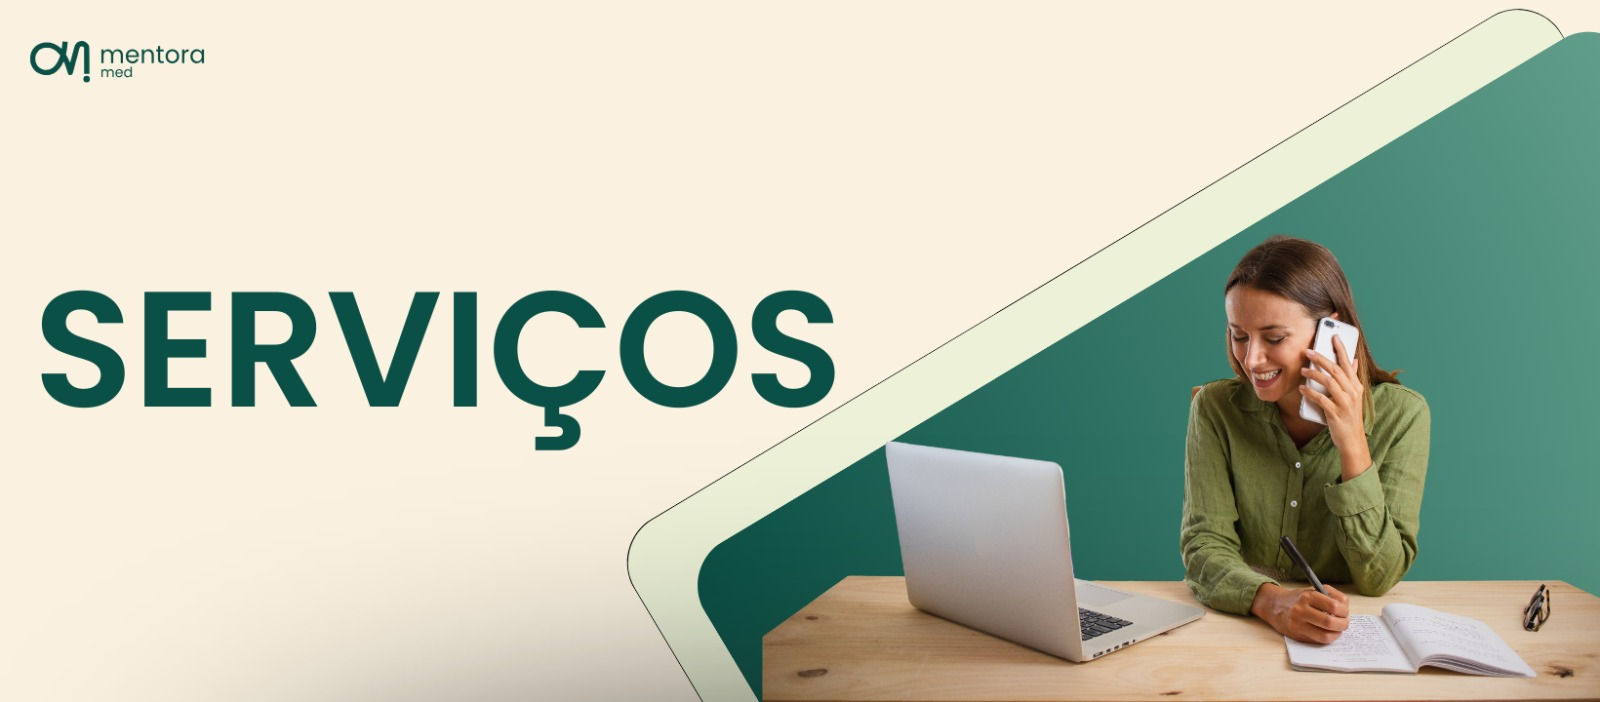
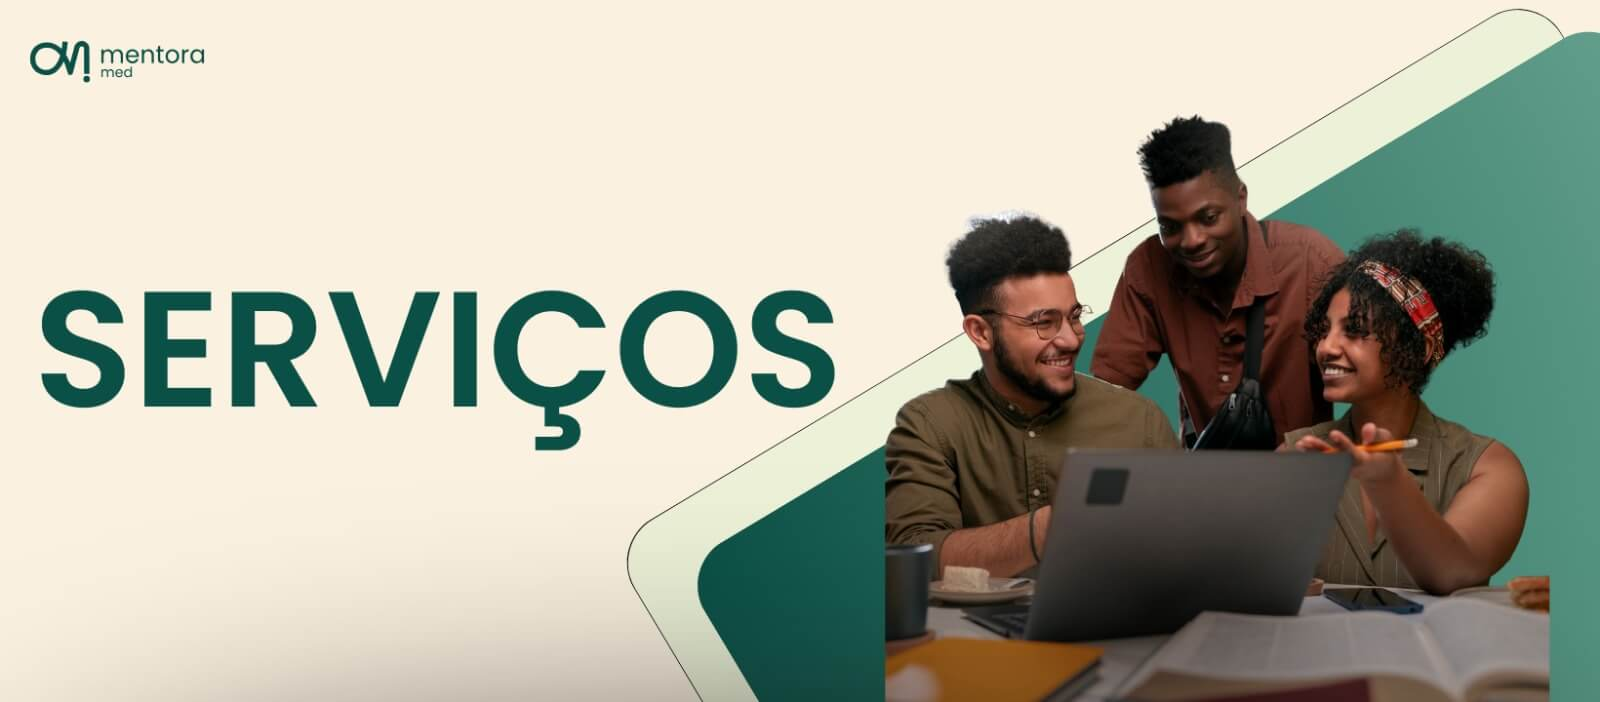
feat: compress services images

Changed region(s): [[0.4688, 0.1496, 1.0, 1.0]]

diff --git a/src/pages/ServicesPage.jsx b/src/pages/ServicesPage.jsx
@@ -3,11 +3,8 @@ const ServicesPage = () => (
     <section
       id="services-hero"
       className="pt-270 pb-140 bg--fixed page-hero-section division"
-    >
-      <div className="container-xxl text-center">
-        <div className="row justify-content-center py-120"></div>
-      </div>
-    </section>
+      style={{ padding: "400px 0", marginTop: "80px" }}
+    ></section>
 
     <section className="pt-120 pb-120 service-page-section division">
       <div className="container-xxl">
@@ -104,27 +101,25 @@ const ServicesPage = () => (
                 oferecendo:
               </p>
 
-              <p>
-                <ul className="services-list">
-                  <li>
-                    <span className="flaticon-check-2"></span>
-                    Avaliação psicossocial dos colaboradores;
-                  </li>
-                  <li>
-                    <span className="flaticon-check-2"></span>
-                    Relatórios completos que identificam fatores de risco;
-                  </li>
-                  <li>
-                    <span className="flaticon-check-2"></span>Recomendações
-                    práticas para gestores e RH;
-                  </li>
-                  <li>
-                    <span className="flaticon-check-2"></span>
-                    Documentação que auxilia a reduzir riscos de passivos
-                    trabalhistas.
-                  </li>
-                </ul>
-              </p>
+              <ul className="services-list">
+                <li>
+                  <span className="flaticon-check-2"></span>
+                  Avaliação psicossocial dos colaboradores;
+                </li>
+                <li>
+                  <span className="flaticon-check-2"></span>
+                  Relatórios completos que identificam fatores de risco;
+                </li>
+                <li>
+                  <span className="flaticon-check-2"></span>Recomendações
+                  práticas para gestores e RH;
+                </li>
+                <li>
+                  <span className="flaticon-check-2"></span>
+                  Documentação que auxilia a reduzir riscos de passivos
+                  trabalhistas.
+                </li>
+              </ul>
             </div>
 
             <hr id="consultoria" className="divisor py-60" />
@@ -142,27 +137,25 @@ const ServicesPage = () => (
 
               <p>Atuamos lado a lado com a liderança e o RH para:</p>
 
-              <p>
-                <ul className="services-list">
-                  <li>
-                    <span className="flaticon-check-2"></span>Desenvolver
-                    políticas de bem-estar alinhadas às necessidades da
-                    organização;
-                  </li>
-                  <li>
-                    <span className="flaticon-check-2"></span>Reduzir
-                    afastamentos e absenteísmo;
-                  </li>
-                  <li>
-                    <span className="flaticon-check-2"></span>Melhorar o clima
-                    organizacional e a produtividade;
-                  </li>
-                  <li>
-                    <span className="flaticon-check-2"></span>Promover uma
-                    cultura de cuidado e respeito à saúde emocional.
-                  </li>
-                </ul>
-              </p>
+              <ul className="services-list">
+                <li>
+                  <span className="flaticon-check-2"></span>Desenvolver
+                  políticas de bem-estar alinhadas às necessidades da
+                  organização;
+                </li>
+                <li>
+                  <span className="flaticon-check-2"></span>Reduzir afastamentos
+                  e absenteísmo;
+                </li>
+                <li>
+                  <span className="flaticon-check-2"></span>Melhorar o clima
+                  organizacional e a produtividade;
+                </li>
+                <li>
+                  <span className="flaticon-check-2"></span>Promover uma cultura
+                  de cuidado e respeito à saúde emocional.
+                </li>
+              </ul>
             </div>
 
             <hr id="treinamentos" className="divisor py-60" />
@@ -178,26 +171,24 @@ const ServicesPage = () => (
                 fundamentais, como:
               </p>
 
-              <p>
-                <ul className="services-list">
-                  <li>
-                    <span className="flaticon-check-2"></span>Inteligência
-                    emocional e resiliência;
-                  </li>
-                  <li>
-                    <span className="flaticon-check-2"></span>Gestão de
-                    conflitos e comunicação assertiva;
-                  </li>
-                  <li>
-                    <span className="flaticon-check-2"></span>Prevenção do
-                    estresse e do burnout;
-                  </li>
-                  <li>
-                    <span className="flaticon-check-2"></span>Liderança
-                    humanizada e motivadora.
-                  </li>
-                </ul>
-              </p>
+              <ul className="services-list">
+                <li>
+                  <span className="flaticon-check-2"></span>Inteligência
+                  emocional e resiliência;
+                </li>
+                <li>
+                  <span className="flaticon-check-2"></span>Gestão de conflitos
+                  e comunicação assertiva;
+                </li>
+                <li>
+                  <span className="flaticon-check-2"></span>Prevenção do
+                  estresse e do burnout;
+                </li>
+                <li>
+                  <span className="flaticon-check-2"></span>Liderança humanizada
+                  e motivadora.
+                </li>
+              </ul>
 
               <p>
                 Os treinamentos podem ser realizados de forma presencial ou
@@ -220,26 +211,24 @@ const ServicesPage = () => (
 
               <p>Com ela, sua empresa pode:</p>
 
-              <p>
-                <ul className="services-list">
-                  <li>
-                    <span className="flaticon-check-2"></span>Gerenciar
-                    atendimentos psicológicos de forma prática e segura;
-                  </li>
-                  <li>
-                    <span className="flaticon-check-2"></span>Acompanhar
-                    indicadores de saúde mental dos colaboradores;
-                  </li>
-                  <li>
-                    <span className="flaticon-check-2"></span>Emitir relatórios
-                    psicossociais conforme exigências legais;
-                  </li>
-                  <li>
-                    <span className="flaticon-check-2"></span>Centralizar
-                    treinamentos, avaliações e planos de ação em um só lugar.
-                  </li>
-                </ul>
-              </p>
+              <ul className="services-list">
+                <li>
+                  <span className="flaticon-check-2"></span>Gerenciar
+                  atendimentos psicológicos de forma prática e segura;
+                </li>
+                <li>
+                  <span className="flaticon-check-2"></span>Acompanhar
+                  indicadores de saúde mental dos colaboradores;
+                </li>
+                <li>
+                  <span className="flaticon-check-2"></span>Emitir relatórios
+                  psicossociais conforme exigências legais;
+                </li>
+                <li>
+                  <span className="flaticon-check-2"></span>Centralizar
+                  treinamentos, avaliações e planos de ação em um só lugar.
+                </li>
+              </ul>
 
               <p>
                 A plataforma foi desenvolvida pensando na simplicidade de uso e

diff --git a/src/assets/styles/style.css b/src/assets/styles/style.css
@@ -7184,11 +7184,7 @@ img.footer-logo {
 }
 
 #services-hero {
-  background-image: url(../images/services-image01.jpeg);
-
-  background-size: cover;
-  background-position: center;
-  background-repeat: no-repeat;
+  background-image: url(../images/services-image02.jpeg);
 }
 
 /*------------------------------------------*/
@@ -7589,6 +7585,7 @@ img.footer-logo {
 }
 
 #services-sidebar {
+  align-self: flex-start;
   position: sticky;
   top: 0;
 }
